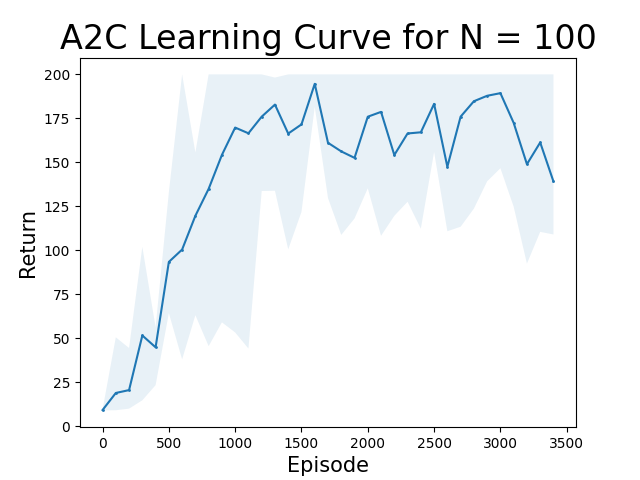
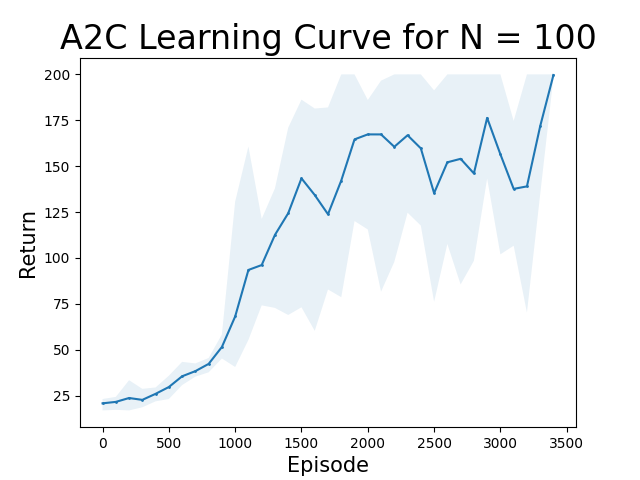
upload dqn results

diff --git a/F22_10703_Homework_2/hw2_impl/pytorch/dqn/dqn.py b/F22_10703_Homework_2/hw2_impl/pytorch/dqn/dqn.py
@@ -48,6 +48,7 @@ class QNetwork():
     # Define your network architecture here. It is also a good idea to define any training operations
     # and optimizers here, initialize your variables, or alternately compile your model here.
         self.net = FullyConnectedModel(env.observation_space.shape[0], env.action_space.n)
+        self.lr = lr
         self.optimizer = torch.optim.Adam(self.net.parameters(), lr=lr)
         self.gamma = gamma
         self.logdir = logdir
@@ -78,7 +79,6 @@ class QNetwork():
     def train(self, batch_x, Q_target: QNetwork):
         """Helper function to train your model on a given batch of experience replay samples."""
         self.net.train()
-        self.optimizer.zero_grad()
         
         ys = []
         qvalues_self = []
@@ -97,6 +97,7 @@ class QNetwork():
             ys.append(y)
             qvalues_self.append(self.predict(state)[action])
         
+        self.optimizer.zero_grad()
         ys = torch.stack(ys)
         qvalues_self = torch.stack(qvalues_self)
         loss = torch.nn.functional.mse_loss(qvalues_self, ys, reduction="mean")
@@ -177,7 +178,6 @@ class DQN_Agent():
             max_episode_T = self.env.spec.max_episode_steps
         cur_state = self.env.reset()
         for t in range(max_episode_T):
-            cur_state = self.env.state
             # Sample action from epsilon greedy policy
             qvalues = self.Qw.predict(self.env.state)
             action = self.epsilon_greedy_policy(qvalues)
@@ -194,10 +194,11 @@ class DQN_Agent():
             self.c += 1
             if self.c % self.w_target_interval == 0:
                 self.Q_target.load_model(self.Qw)
+                self.c = 0
             if done:
                 break
+            cur_state = next_state
 
-        
     def train(self, num_episodes=200, max_episode_T=None):
         # In this function, we will train our network.
 

diff --git a/F22_10703_Homework_2/hw2_impl/pytorch/a2c/a2c.py b/F22_10703_Homework_2/hw2_impl/pytorch/a2c/a2c.py
@@ -38,8 +38,8 @@ class A2C(object):
         episode_reward = 0
         while not done:
             action = self.actor(torch.from_numpy(state).float())
-            action = torch.argmax(action).item()
-            # action = torch.distributions.Categorical(action).sample().item()
+            # action = torch.argmax(action).item()
+            action = torch.distributions.Categorical(action).sample().item()
             state, reward, done, _ = env.step(action)
             episode_reward += reward
         return episode_reward
